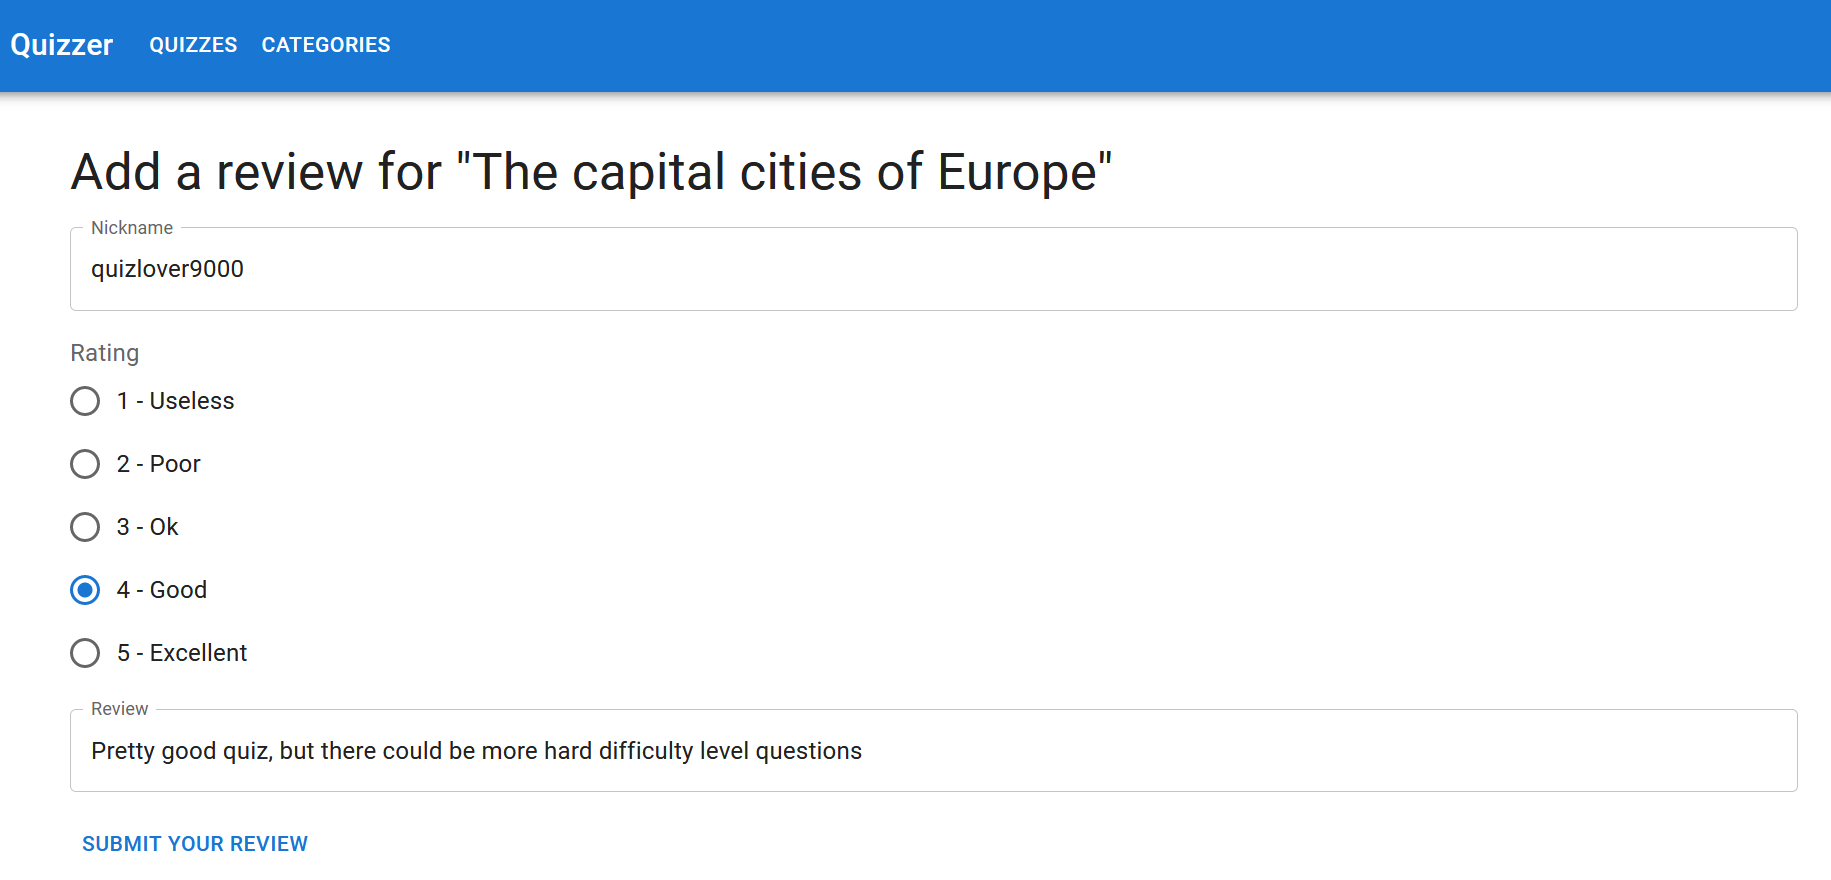
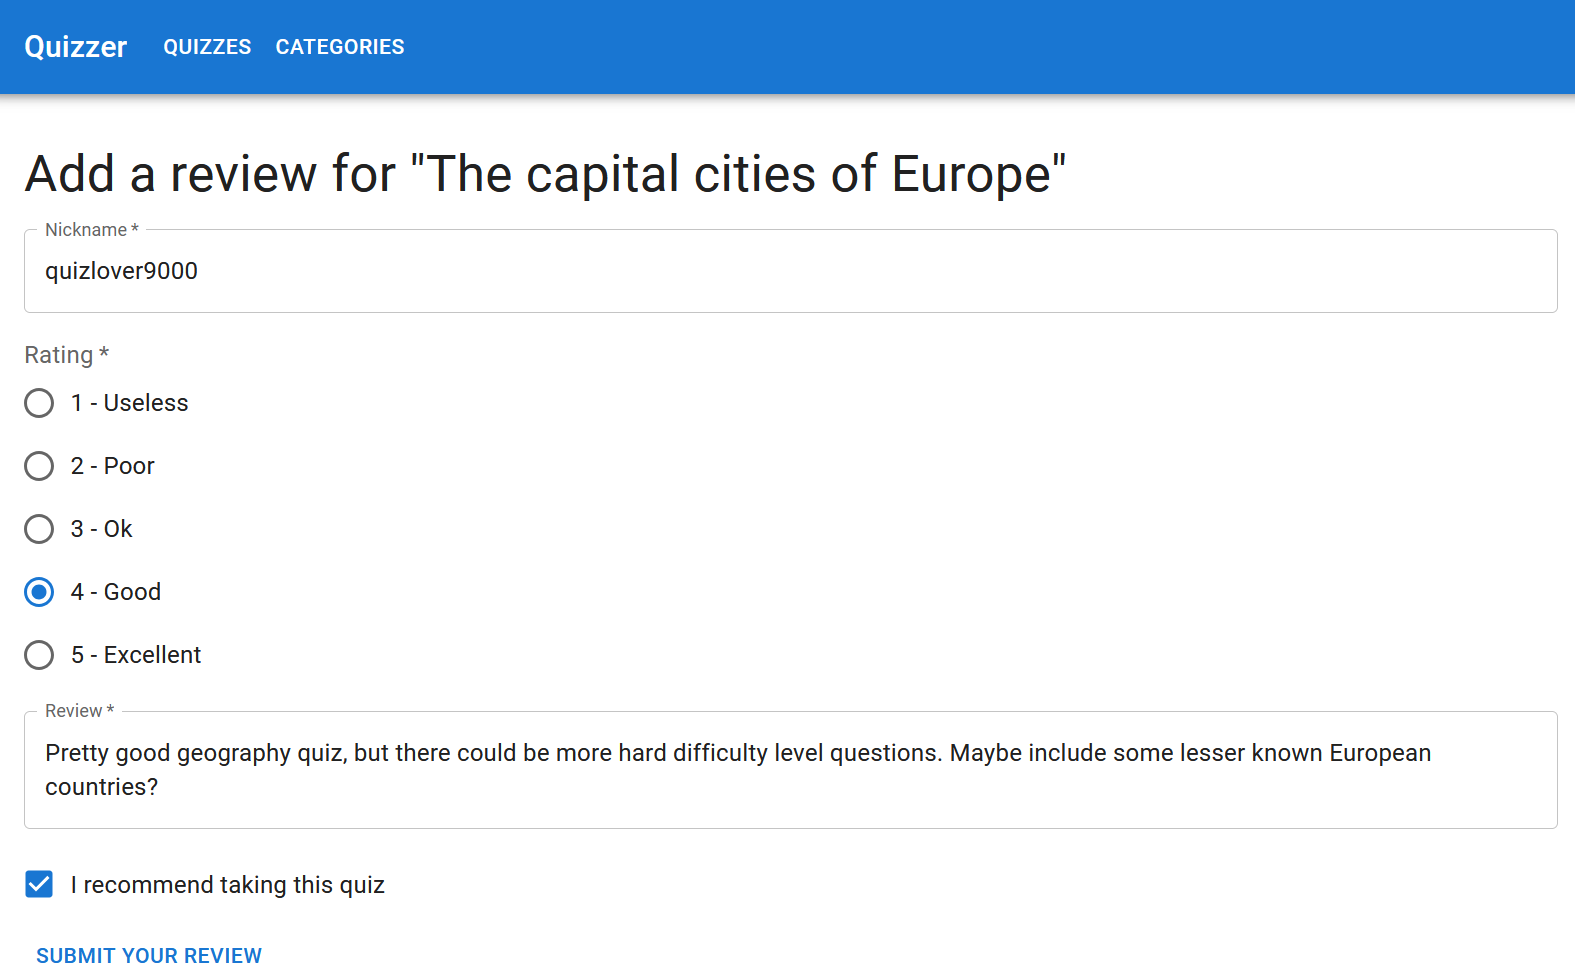
todo

diff --git a/teacher/calculateGrade.js b/teacher/calculateGrade.js
@@ -28,12 +28,12 @@ function calculatePersonalPoints(peerReviewAverage) {
 }
 
 while (true) {
-  const projectPoints = parseInt(readline.question("Project points (0-40):"));
-  const peerReviewAverage = parseInt(
+  const projectPoints = parseFloat(readline.question("Project points (0-40):"));
+  const peerReviewAverage = parseFloat(
     readline.question("Peer review average (0-5):")
   );
   const personalModifier = parseInt(
-    readline.question("Personal points modifier:")
+    readline.question("Personal points modifier:") || 0
   );
 
   const personalPoints = Math.min(
@@ -44,9 +44,18 @@ while (true) {
   const totalPoints = projectPoints + personalPoints;
   const grade = calculateGrade(totalPoints);
 
-  console.log(`Project points: ${projectPoints}/40`);
-  console.log(`Personal points: ${personalPoints}/20`);
-  console.log(`Total points: ${totalPoints}/60`);
-  console.log(`Grade: ${grade}/5`);
+  console.log(`
+    <p>Here is your assesment:</p>
+    <ul>
+      <li>Project points: ${projectPoints.toFixed(1)}/40</li>
+      <li>Personal points: ${personalPoints.toFixed(1)}/20</li>
+      <li>Total points: ${totalPoints.toFixed(1)}/60</li>
+      <li>Grade: ${grade.toFixed(1)}/5</li>
+    </ul>
+    <p>
+      Let me know if you have any questions about the assesment.
+    </p>
+  `);
+
   console.log("---");
 }

diff --git a/material/sprint-2.md b/material/sprint-2.md
@@ -1,8 +1,9 @@
 ---
 layout: page
 title: 🏃♂ Sprint 2
-permalink: /sprint-2
+permalink: /sprint-2-todo
 nav_order: 7
+nav_exclude: true
 ---
 
 {% include toc.html %}
@@ -90,9 +91,9 @@ The Sprint Review gave the Product Owner many new ideas on how to improve the ap
 
 > _"It's great that we now have the basic functionality for managing quizzes! What we now need is a way for the teacher to categorize quizzes and student to take the published quizzes._
 >
-> _To be able to categorize quizzes, the teacher should be able to add a category. A category has a name, for example "Vocabulary" and a description, for example "Questions related to the vocabulary of a language". There should be a form for adding a category and a separate page for listing the added categories. The category list should have a delete button next to each category, which can be clicked to delete the category._
+> _To be able to categorize quizzes, the teacher should be able to add a category. A category has a name, for example "Vocabulary" and a description, for example "Questions related to the vocabulary of a language". There should not be more than one category with the same name. There should be a form for adding a category and a separate page for listing the added categories. The category list should have a delete button next to each category, which can be clicked to delete the category._
 >
-> _The teacher should be able to choose the quiz's category while adding or editing a quiz. There could be a dropdown menu in both forms where categories are listed. It should also be possible to leave a quiz uncategorized by not choosing a category for the quiz. Deleting a category should leave the related quizzes uncategorized._
+> _The teacher should be able to choose the quiz's category while adding or editing a quiz. There could be a dropdown menu listing all the categories in both forms, from which the teacher can choose the quiz's category._
 >
 > _Once we have this basic set of features for the teachers, we can start working on the student dashboard application. The student dashboard should have a page that lists the published quizzes with the quiz name, description, category and the date when it was added._
 >
@@ -100,7 +101,7 @@ The Sprint Review gave the Product Owner many new ideas on how to improve the ap
 >
 > _In the quiz page the student should be able to take a published quiz by answering the questions. The questions should be listed and the student should be able to choose an answer option and submit their answer for each question. When the student submits their answer, there should be some kind of feedback dialog which tells the student if their answer was correct or not. For example, "That is correct, good job!", or "That is not correct, try again"._
 >
-> _There should be a page in the student dashboard where the results of a quiz are summarized. The results summarize all the answers submitted by different students to provide the teacher with an overview of how well the students know the quiz's topic. The page should display the difficulty level, the total number of answers, the correct answer percentage and the number of correct and wrong answers for each question of the quiz. Also the total number of answer and questions of a quiz should be displayed. There should be a link to the results page next to the quiz in the quiz list page._
+> _There should be a page in the student dashboard where the results of a quiz are summarized. The results summarize all the answers submitted by different students to provide the teacher with an overview of how well the students know the quiz's topic. The page should display the question text, the difficulty level, the total number of answers, the correct answer percentage and the number of correct and wrong answers for each question of the quiz. Also the total number of answer and questions of a quiz should be displayed. There should be a link to the results page next to the quiz in the quiz list page._
 >
 > _Different students are interested in different quiz categories. To find interesting quizzes quickly, there should be page that lists all the categories. The category list page should be accessible from the navigation menu. Clicking the category's name on the list should take the student to a page that lists the quizzes in the category."_
 >
@@ -374,16 +375,14 @@ public List<PublicUserDto> getAllUsers() {
     return userRepository.findAll()
         .stream()
         .map(user -> new PublicUserDto(user.getId(), user.getUsername(), user.getIsAdmin()))
-        .collect(Collectors.toList());
+        .toList()
 }
 ```
 
 This corresponds to the following JSON format for the response body:
 
 ```json
-[
-  { "id": 1, "username": "kalle", "isAdmin": false }
-]
+[{ "id": 1, "username": "kalle", "isAdmin": false }]
 ```
 
 {: .note }
@@ -437,7 +436,7 @@ To get more control over the response, we can use the [ResponseEntity](https://w
 public ResponseEntity<?> createMessage(@Valid @RequestBody CreateMessageDto message, BindingResult bindingResult) {
     if (bindingResult.hasErrors()) {
         List<String> errorMessages = bindingResult.getAllErrors().stream().map((error) -> error.getDefaultMessage())
-                .collect(Collectors.toList());
+                .toList();
 
         return ResponseEntity.status(HttpStatus.BAD_REQUEST).body(errorMessages);
     }
@@ -445,7 +444,7 @@ public ResponseEntity<?> createMessage(@Valid @RequestBody CreateMessageDto mess
     Message newMessage = new Message(message.getContent());
     messageRepository.save(newMessage);
 
-    // HTTP status 201 Created will be used in this response 
+    // HTTP status 201 Created will be used in this response
     return ResponseEntity.status(HttpStatus.CREATED).body(newMessage);
 }
 ```
@@ -522,9 +521,26 @@ Next, let's consider what kind of REST API endpoints we need for the remaining u
 
 > Exercise 14
 >
-> Implement a REST API endpoint for _getting all the anwers (submitted by the students) of a quiz_. Return an appropriate HTTP status code and error message in the following error case:
+> Implement a REST API endpoint for _getting the results of a quiz_. Return an appropriate HTTP status code and error message in the following error case:
 >
 > - Quiz with the provided id does not exist
+>
+> The endpoint should return the total number of answers, the number of correct answers and the number of wrong answers for each question of the quiz based on the submitted answers of the students. You can for example consider the following structure for the response body:
+>
+> ```json
+> [
+>   {
+>     "questionId": 1,
+>     "questionText": "What is the capital of Finland?",
+>     "questionDifficulty": "Easy",
+>     "totalAnswers": 10,
+>     "correctAnswers": 9,
+>     "wrongAnswers": 1
+>   }
+> ]
+> ```
+>
+> You can implement an appropriate [DTO](https://www.baeldung.com/java-dto-pattern) class for the question results object and use it to construct the response body.
 >
 > Create an issue for each task. Set the Sprint milestone and add the issues to the backlog.
 
@@ -611,7 +627,7 @@ The `@ApiResponses` and `@ApiResponse` annotations can be used to document diffe
 )
 @ApiResponses(value = {
     // The responseCode property defines the HTTP status code of the response
-    @ApiResponse(responseCode = "200", description = "Successful operation"),
+    @ApiResponse(responseCode = "200", description = "Message with the provided id retrieved successfully"),
     @ApiResponse(responseCode = "404", description = "Message with the provided id does not exist")
 })
 @GetMapping("/messages/{id}")
@@ -627,7 +643,7 @@ public Message getMessageById(@PathVariable Long id) {
 The `@Tag` annotation can be used to group endpoints, usually based on the REST API collection name, such as "messages" or "users":
 
 ```java
-@Tag("Messages")
+@Tag(name = "Messages")
 @Operation(/* ... */)
 @ApiResponses(/* .. */)
 @GetMapping("/messages")
@@ -635,7 +651,7 @@ public Message getAllMessages(@PathVariable Long id) {
     // ...
 }
 
-@Tag("Messages")
+@Tag(name = "Messages")
 @Operation(/* ... */)
 @ApiResponses(/* .. */)
 @GetMapping("/messages/{id}")
@@ -643,7 +659,7 @@ public Message getMessageById(@PathVariable Long id) {
     // ...
 }
 
-@Tag("Users")
+@Tag(name = "Users")
 @Operation(/* ... */)
 @ApiResponses(/* .. */)
 @GetMapping("/users")
@@ -651,7 +667,7 @@ public Message getAllUsers(@PathVariable Long id) {
     // ...
 }
 
-@Tag("Users")
+@Tag(name = "Users")
 @Operation(/* ... */)
 @ApiResponses(/* .. */)
 @GetMapping("/users/{id}")
@@ -668,7 +684,7 @@ It is also possible to have separate REST API controller classes for each collec
 @RestController
 @RequestMapping("/api/messages")
 @CrossOrigin(origins = "*")
-@Tag("Messages")
+@Tag(name = "Messages", description = "Operations for retrieving and manipulating messages")
 public class MessageRestController {
     // ...
 }
@@ -676,7 +692,7 @@ public class MessageRestController {
 @RestController
 @RequestMapping("/api/users")
 @CrossOrigin(origins = "*")
-@Tag("Users")
+@Tag(name = "Users", description = "Operations for retrieving and manipulating users")
 public class UserRestController {
     // ...
 }
@@ -869,7 +885,7 @@ export default function MessageList() {
 >
 > ![](/assets/sprint-2-us-11-1-category-quizzes.png)
 >
-> ![](/assets/sprint-2-us-11-3-category-quizzes.png)
+> ![](/assets/sprint-2-us-11-2-category-quizzes.png)
 
 ## Deploying the frontend
 

diff --git a/material/sprint-3.md b/material/sprint-3.md
@@ -1,8 +1,9 @@
 ---
 layout: page
 title: 🏃♂ Sprint 3
-permalink: /sprint-3
+permalink: /sprint-3-todo
 nav_order: 8
+nav_exclude: true
 ---
 
 {% include toc.html %}
@@ -49,11 +50,15 @@ The Sprint Review gave the Product Owner many new ideas on how to improve the ap
 
 > _"We now have the basic features for managing and taking quizzes. What we still need is a way for the students to share their thoughts about quizzes by writing reviews in the student dashboard._
 >
-> _The student should be able to share their thoughts about a quiz by writing a review. For this purpose there could be a separate review page. A review has a reviewer's nickname, a rating between 1 and 5 and a review text. The student should not be able to review a non-published quiz._
+> _To provide valuable feedback for the teacher and recommendations for their fellow students, the student should be able to share their thoughts about a quiz by writing a review. For this purpose there could be a separate review page. A review has a reviewer's nickname, a numeric rating between 1 and 5, a review text and a recommendation choice. The recommendation choice indicates wheather the student would recommend other students taking the quiz or not. The student should not be able to review a non-published quiz._
 >
-> _The review page should list the added reviews and display the number of reviews and the rating average of the quiz. Each review should display the information submitted by the student and the date when the review was written. It should also be possible for the student to edit and delete reviews in the review page."_
+> _The review page should list the added reviews and display the number of reviews, the rating average and the recommendation percentage of the quiz. Each review should display the information submitted by the student and the date when the review was written. It should also be possible for the student to edit and delete reviews in the review page."_
 >
 > -- The Product Owner
+
+<!--
+Students have different skill levels so it would be useful if the student could filter the questions of quiz by the difficulty level in the quiz page. There could be dropdown menu at the top of the page from which the student can select the difficulty level for the questions.
+-->
 
 After some discussion the Scrum Team planned the following user stories for the _student dashboard_ application:
 
@@ -244,11 +249,13 @@ The configuration in the `src/test/resources/application.properties` file will b
 
 > _"Write tests. Not too many. Mostly integration."_
 >
-> -- Kent C. Dodds
+> -- Guillermo Rauch, CEO of Vercel
 
 Integration tests are a great balance of reliability and performance. Kent C. Dodds covers the importance of integration tests in his article [Write tests. Not too many. Mostly integration.](https://kentcdodds.com/blog/write-tests) As the name of the article implies, Dodds suggests that most of the tests for the application should be integration tests. He makes some fair points to justify this claim:
 
-> One thing that it doesn't show though is that as you move up the pyramid, the confidence quotient of each form of testing increases. You get more bang for your buck. So while E2E tests may be slower and more expensive than unit tests, they bring you much more confidence that your application is working as intended.
+> _"One thing that it doesn't show though is that as you move up the pyramid, the confidence quotient of each form of testing increases. You get more bang for your buck. So while E2E tests may be slower and more expensive than unit tests, they bring you much more confidence that your application is working as intended."_
+>
+> -- Kent C. Dodds, creator of React Testing Library
 
 To get some confidence that our application is working as inteded, let's implement some integration tests for our REST API endpoints.
 
@@ -260,24 +267,24 @@ As an example, let's consider testing the following methods of a `MessageRestCon
 
 ```java
 @RestController
-@RequestMapping("/api/messages")
+@RequestMapping("/api")
 @CrossOrigin(origins = "*")
 public class MessageRestController {
     @Autowired
     private MessageRepository messageRepository;
 
-    @GetMapping("")
+    @GetMapping("/messages")
     public List<Message> getAllMessages() {
         return messageRepository.findAll();
     }
 
-    @GetMapping("/{id}")
+    @GetMapping("/messages/{id}")
     public Message getMessageById(@PathVariable Long id) {
         return messageRepository.findById(id).orElseThrow(
             () -> new ResponseStatusException(HttpStatus.NOT_FOUND, "Message with id " + id + " does not exist"));
     }
 
-    @PostMapping("")
+    @PostMapping("/")
     public Message createMessage(@Valid @RequestBody CreateMessageDto message, BindingResult bindingResult) {
         if (bindingResult.hasErrors()) {
             throw new ResponseStatusException(HttpStatus.BAD_REQUEST,

diff --git a/material/version-control.md b/material/version-control.md
@@ -666,7 +666,7 @@ We should now have a `git-practice-clone` folder in the folder we ran the comman
 >
 > 1. Clone the git-practice repository to your local computer as instructed above and open the repository folder in Git Bash and in an editor such as Visual Studio Code.
 > 2. Change the contents of some file (for example the `git_practice.txt`) file and push the changes to GitHub. Open the repository in GitHub and see that it has the commit you created.
-> 3. Find out using Google, how you can find out the names and addresses of the remote repositories of a Git project. The answer is a command you should run inside the Git project, when a remote has been set. Run the command and see that the remote repository address matches your GitHub repository.
+> 3. Find out using Google, how you can find out the names and addresses of the remote repositories of a Git project. The answer is a command you should run inside the Git project, when a remote has been set. Run the command and see that the remote repository address matches your GitHub repository. Add the command and the command output to a `remote.txt` file and push it to GitHub.
 
 {: .important-title }
 

diff --git a/material/project-description.md b/material/project-description.md
@@ -27,7 +27,7 @@ The Product Owner has a great project idea and is in desperate need of a talente
 >
 > _There should also be a page where the results of a quiz are displayed. The page should display the total number of answers, the correct answer percentage and the number of correct and wrong answers for each question._
 >
-> _So that the students can share their thoughts about a quiz, the student should be able to review a quiz. There should be a page where the student can write a review and see other students' reviews for a quiz. It should also be possible for the student to edit and delete reviews._"
+> _So that the students can share their thoughts about a quiz, the student should be able to review a quiz. There should be a page where the student can write a review and see other students' reviews for a quiz. It should also be possible for the student to edit and delete reviews."_
 >
 > -- The Product Owner of Quizzer
 

diff --git a/material/sprint-1.md b/material/sprint-1.md
@@ -1,8 +1,9 @@
 ---
 layout: page
 title: 🏃♂ Sprint 1
-permalink: /sprint-1
+permalink: /sprint-1-todo
 nav_order: 6
+nav_exclude: true
 ---
 
 {% include toc.html %}

diff --git a/material/product-backlog.md b/material/product-backlog.md
@@ -3,6 +3,7 @@ layout: page
 title: 🗒 Product Backlog
 permalink: /product-backlog
 nav_order: 10
+nav_exclude: true
 ---
 
 # Product Backlog
